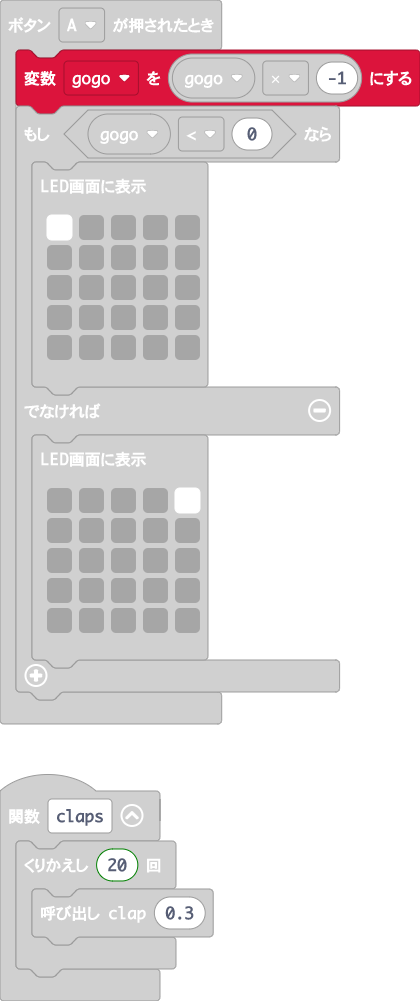
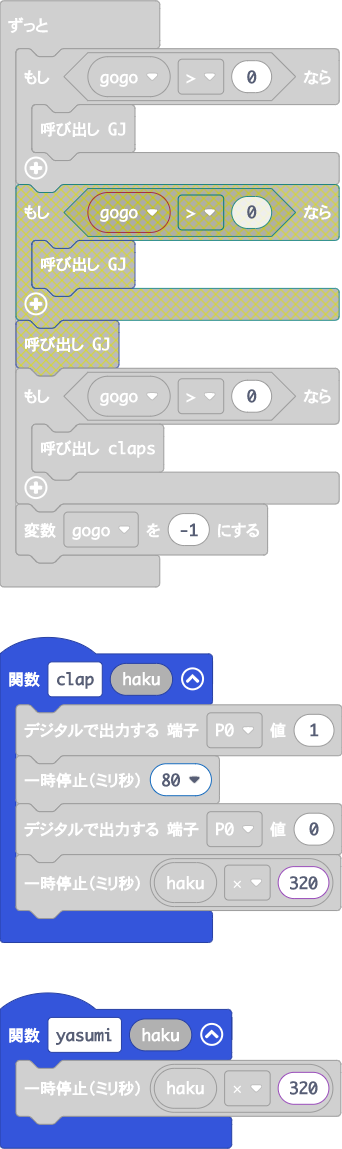
クラップの速度をあげた。三三七拍子の繰り返しを2回から1回に。

diff --git a/main.ts b/main.ts
@@ -1,8 +1,8 @@
 function clap (haku: number) {
     pins.digitalWritePin(DigitalPin.P0, 1)
-    basic.pause(100)
+    basic.pause(80)
     pins.digitalWritePin(DigitalPin.P0, 0)
-    basic.pause(haku * 400)
+    basic.pause(haku * 320)
 }
 function GJ () {
     for (let index = 0; index < 3; index++) {
@@ -19,7 +19,7 @@ function GJ () {
     yasumi(1)
 }
 function yasumi (haku: number) {
-    basic.pause(haku * 400)
+    basic.pause(haku * 320)
 }
 input.onButtonPressed(Button.A, function () {
     gogo = gogo * -1
@@ -52,9 +52,6 @@ function claps () {
 let gogo = 0
 gogo = -1
 basic.forever(function () {
-    if (gogo > 0) {
-        GJ()
-    }
     if (gogo > 0) {
         GJ()
     }
